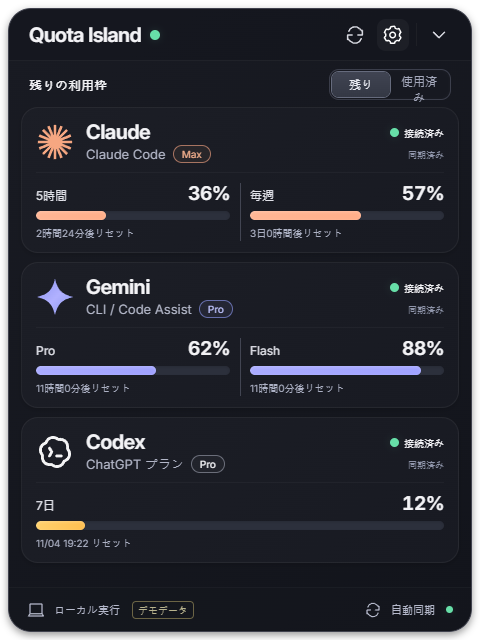
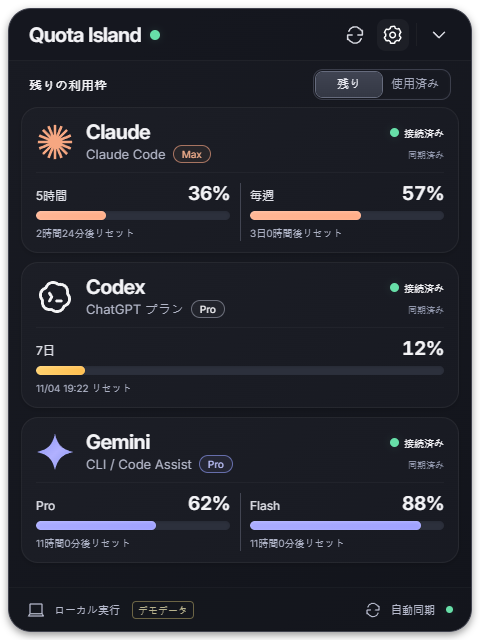
Prevent Japanese quota toggle labels from wrapping

diff --git a/src/ui/style.css b/src/ui/style.css
@@ -73,3 +73,5 @@ html:not([lang="zh-TW"]) .context-line h2{font-size:13px}
 html:not([lang="zh-TW"]) .connection-status{max-width:98px}
 .mini-info{max-width:100%}.mini-value.unknown,.compact-provider.stale .mini-value{max-width:100%;overflow:hidden;text-overflow:ellipsis}
 html[lang="en"] .segmented button{width:66px;font-size:11px}
+.segmented button{display:inline-flex;align-items:center;justify-content:center;padding:0 6px;white-space:nowrap;flex-shrink:0;line-height:1}
+html[lang="ja"] .segmented button{width:66px}
